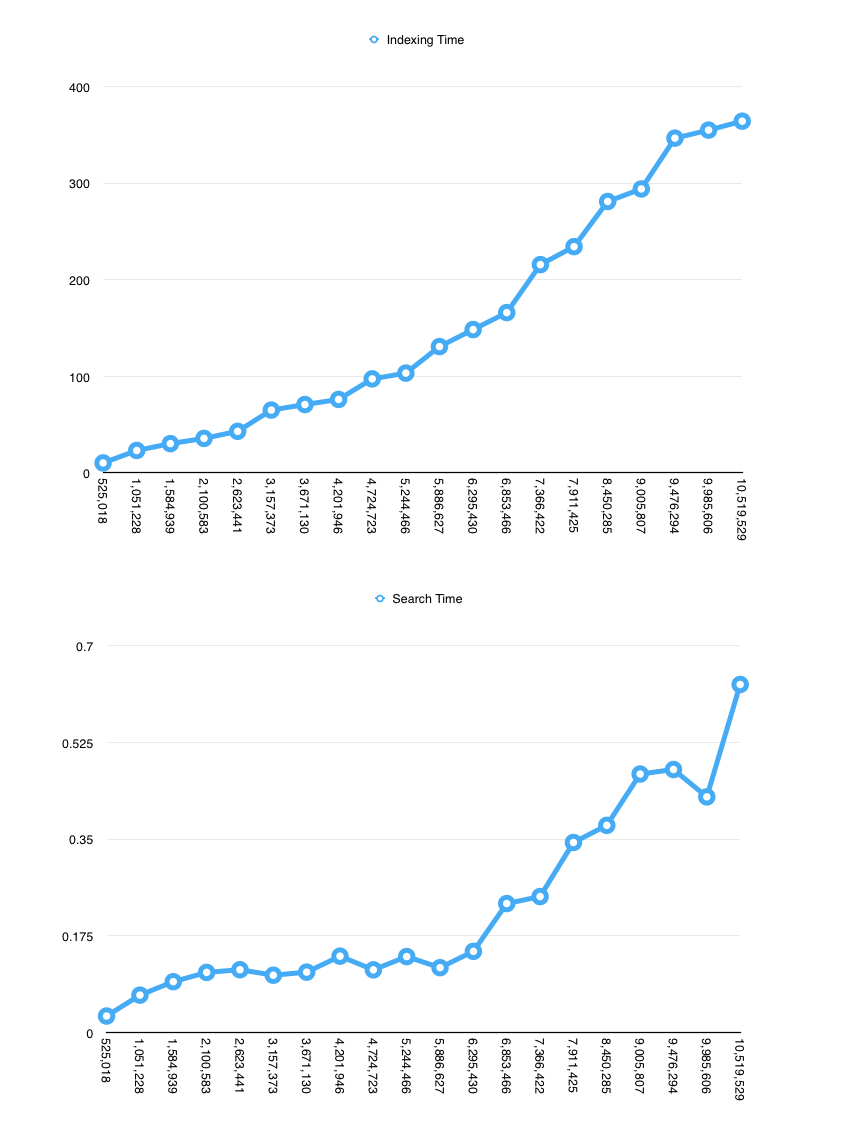
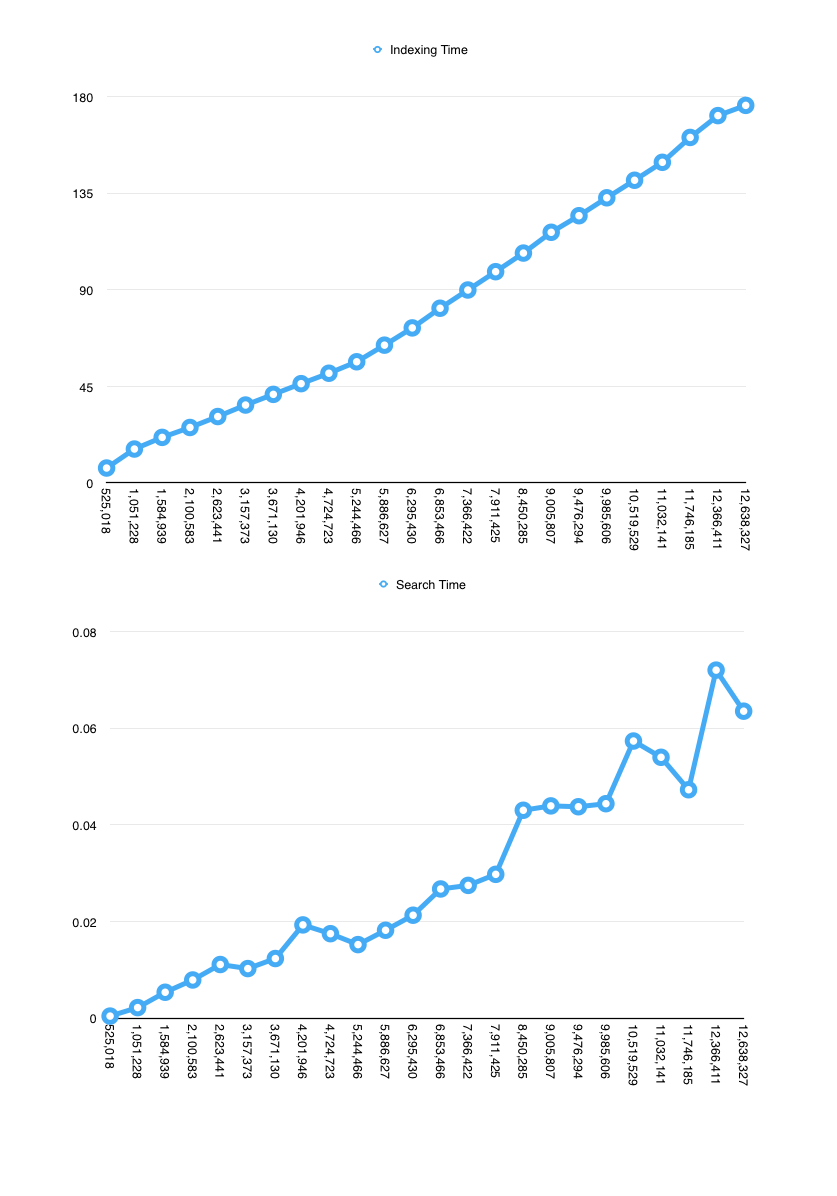
Added a skipStopWords option
This brings tremendous performance gains for larger texts

diff --git a/Classes/MHTextIndex.m b/Classes/MHTextIndex.m
@@ -20,6 +20,15 @@ static const NSUInteger stringFoldingOptions = NSCaseInsensitiveSearch|NSDiacrit
 static const size_t uint64_sz = sizeof(uint64_t);
 static const size_t uint32_sz = sizeof(uint32_t);
 
+NSSet *stopWords() {
+    static NSSet *stopWords;
+    static dispatch_once_t onceToken;
+    dispatch_once(&onceToken, ^{
+        stopWords = [NSSet setWithObjects:@"a's", @"able", @"about", @"above", @"according", @"accordingly", @"across", @"actually", @"after", @"afterwards", @"again", @"against", @"ain't", @"all", @"allow", @"allows", @"almost", @"alone", @"along", @"already", @"also", @"although", @"always", @"am", @"among", @"amongst", @"an", @"and", @"another", @"any", @"anybody", @"anyhow", @"anyone", @"anything", @"anyway", @"anyways", @"anywhere", @"apart", @"appear", @"appreciate", @"appropriate", @"are", @"aren't", @"around", @"as", @"aside", @"ask", @"asking", @"associated", @"at", @"available", @"away", @"awfully", @"be", @"became", @"because", @"become", @"becomes", @"becoming", @"been", @"before", @"beforehand", @"behind", @"being", @"believe", @"below", @"beside", @"besides", @"best", @"better", @"between", @"beyond", @"both", @"brief", @"but", @"by", @"c'mon", @"c's", @"came", @"can", @"can't", @"cannot", @"cant", @"cause", @"causes", @"certain", @"certainly", @"changes", @"clearly", @"co", @"com", @"come", @"comes", @"concerning", @"consequently", @"consider", @"considering", @"contain", @"containing", @"contains", @"corresponding", @"could", @"couldn't", @"course", @"currently", @"definitely", @"described", @"despite", @"did", @"didn't", @"different", @"do", @"does", @"doesn't", @"doing", @"don't", @"done", @"down", @"downwards", @"during", @"each", @"edu", @"eg", @"eight", @"either", @"else", @"elsewhere", @"enough", @"entirely", @"especially", @"et", @"etc", @"even", @"ever", @"every", @"everybody", @"everyone", @"everything", @"everywhere", @"ex", @"exactly", @"example", @"except", @"far", @"few", @"fifth", @"first", @"five", @"followed", @"following", @"follows", @"for", @"former", @"formerly", @"forth", @"four", @"from", @"further", @"furthermore", @"get", @"gets", @"getting", @"given", @"gives", @"go", @"goes", @"going", @"gone", @"got", @"gotten", @"greetings", @"had", @"hadn't", @"happens", @"hardly", @"has", @"hasn't", @"have", @"haven't", @"having", @"he", @"he's", @"hello", @"help", @"hence", @"her", @"here", @"here's", @"hereafter", @"hereby", @"herein", @"hereupon", @"hers", @"herself", @"hi", @"him", @"himself", @"his", @"hither", @"hopefully", @"how", @"howbeit", @"however", @"i'd", @"i'll", @"i'm", @"i've", @"ie", @"if", @"ignored", @"immediate", @"in", @"inasmuch", @"inc", @"indeed", @"indicate", @"indicated", @"indicates", @"inner", @"insofar", @"instead", @"into", @"inward", @"is", @"isn't", @"it", @"it'd", @"it'll", @"it's", @"its", @"itself", @"just", @"keep", @"keeps", @"kept", @"know", @"known", @"knows", @"last", @"lately", @"later", @"latter", @"latterly", @"least", @"less", @"lest", @"let", @"let's", @"like", @"liked", @"likely", @"little", @"look", @"looking", @"looks", @"ltd", @"mainly", @"many", @"may", @"maybe", @"me", @"mean", @"meanwhile", @"merely", @"might", @"more", @"moreover", @"most", @"mostly", @"much", @"must", @"my", @"myself", @"name", @"namely", @"nd", @"near", @"nearly", @"necessary", @"need", @"needs", @"neither", @"never", @"nevertheless", @"new", @"next", @"nine", @"no", @"nobody", @"non", @"none", @"noone", @"nor", @"normally", @"not", @"nothing", @"novel", @"now", @"nowhere", @"obviously", @"of", @"off", @"often", @"oh", @"ok", @"okay", @"old", @"on", @"once", @"one", @"ones", @"only", @"onto", @"or", @"other", @"others", @"otherwise", @"ought", @"our", @"ours", @"ourselves", @"out", @"outside", @"over", @"overall", @"own", @"particular", @"particularly", @"per", @"perhaps", @"placed", @"please", @"plus", @"possible", @"presumably", @"probably", @"provides", @"que", @"quite", @"qv", @"rather", @"rd", @"re", @"really", @"reasonably", @"regarding", @"regardless", @"regards", @"relatively", @"respectively", @"right", @"said", @"same", @"saw", @"say", @"saying", @"says", @"second", @"secondly", @"see", @"seeing", @"seem", @"seemed", @"seeming", @"seems", @"seen", @"self", @"selves", @"sensible", @"sent", @"serious", @"seriously", @"seven", @"several", @"shall", @"she", @"should", @"shouldn't", @"since", @"six", @"so", @"some", @"somebody", @"somehow", @"someone", @"something", @"sometime", @"sometimes", @"somewhat", @"somewhere", @"soon", @"sorry", @"specified", @"specify", @"specifying", @"still", @"sub", @"such", @"sup", @"sure", @"t's", @"take", @"taken", @"tell", @"tends", @"th", @"than", @"thank", @"thanks", @"thanx", @"that", @"that's", @"thats", @"the", @"their", @"theirs", @"them", @"themselves", @"then", @"thence", @"there", @"there's", @"thereafter", @"thereby", @"therefore", @"therein", @"theres", @"thereupon", @"these", @"they", @"they'd", @"they'll", @"they're", @"they've", @"think", @"third", @"this", @"thorough", @"thoroughly", @"those", @"though", @"three", @"through", @"throughout", @"thru", @"thus", @"to", @"together", @"too", @"took", @"toward", @"towards", @"tried", @"tries", @"truly", @"try", @"trying", @"twice", @"two", @"un", @"under", @"unfortunately", @"unless", @"unlikely", @"until", @"unto", @"up", @"upon", @"us", @"use", @"used", @"useful", @"uses", @"using", @"usually", @"value", @"various", @"very", @"via", @"viz", @"vs", @"want", @"wants", @"was", @"wasn't", @"way", @"we", @"we'd", @"we'll", @"we're", @"we've", @"welcome", @"well", @"went", @"were", @"weren't", @"what", @"what's", @"whatever", @"when", @"whence", @"whenever", @"where", @"where's", @"whereafter", @"whereas", @"whereby", @"wherein", @"whereupon", @"wherever", @"whether", @"which", @"while", @"whither", @"who", @"who's", @"whoever", @"whole", @"whom", @"whose", @"why", @"will", @"willing", @"wish", @"with", @"within", @"without", @"won't", @"wonder", @"would", @"wouldn't", @"yes", @"yet", @"you", @"you'd", @"you'll", @"you're", @"you've", @"your", @"yours", @"yourself", @"yourselves", @"zero", nil];
+    });
+    return stopWords;
+}
+
 typedef enum IndexObjectKeyType : NSUInteger {
     IndexedObjectKeyTypeStrings = 0,
     IndexedObjectKeyTypeMeta = 1
@@ -153,13 +162,24 @@ void removeIndexForStringInObject(NSData *ident, NSUInteger stringIdx, LDBWriteb
                                        });
                                    }];
 }
-void indexWordInObjectTextFragment(NSData *ident, NSStringEncoding encoding, NSUInteger minimalTokenLength,
+void indexWordInObjectTextFragment(NSData *ident, NSStringEncoding encoding,
+                                   NSUInteger minimalTokenLength, BOOL skipStopWords,
                                    NSString *wordSubstring, NSRange wordSubstringRange, NSUInteger stringIdx,
                                    LDBWritebatch *wb) {
     
     NSMutableData *keys = [NSMutableData data];
     NSString *indexedString = [wordSubstring stringByFoldingWithOptions:stringFoldingOptions
                                                                  locale:[NSLocale currentLocale]];
+    
+    static NSSet *stopWordList;
+    static dispatch_once_t onceToken;
+    dispatch_once(&onceToken, ^{
+        stopWordList = stopWords();
+    });
+    
+    if (skipStopWords && [stopWordList containsObject:indexedString])
+        return;
+    
     NSData *keyData;
     NSRange subRange,
     globalRange = wordSubstringRange;
@@ -282,7 +302,10 @@ void indexWordInObjectTextFragment(NSData *ident, NSStringEncoding encoding, NSU
         
         _indexingQueue = [[NSOperationQueue alloc] init];
         _indexingQueue.maxConcurrentOperationCount = 10;
+        
         _minimalTokenLength = 2;
+        _skipStopWords = YES;
+        
         _path = path;
         _name = name;
         
@@ -353,7 +376,8 @@ void indexWordInObjectTextFragment(NSData *ident, NSStringEncoding encoding, NSU
             [obj enumerateSubstringsInRange:(NSRange){0, obj.length}
                                     options:NSStringEnumerationByWords|NSStringEnumerationLocalized
                                  usingBlock:^(NSString *substring, NSRange substringRange, NSRange enclosingRange, BOOL *stop) {
-                                     indexWordInObjectTextFragment(ident, encoding, _sself->_minimalTokenLength, substring, substringRange, idx, wb);
+                                     indexWordInObjectTextFragment(ident, encoding, _sself->_minimalTokenLength, _sself->_skipStopWords,
+                                                                   substring, substringRange, idx, wb);
                                  }];
         }];
         
@@ -414,7 +438,8 @@ void indexWordInObjectTextFragment(NSData *ident, NSStringEncoding encoding, NSU
             [obj enumerateSubstringsInRange:(NSRange){0, obj.length}
                                     options:NSStringEnumerationByWords|NSStringEnumerationLocalized
                                  usingBlock:^(NSString *substring, NSRange substringRange, NSRange enclosingRange, BOOL *stop) {
-                                     indexWordInObjectTextFragment(ident, encoding, _sself->_minimalTokenLength, substring, substringRange, idx, wb);
+                                     indexWordInObjectTextFragment(ident, encoding, _sself->_minimalTokenLength, _sself->_skipStopWords,
+                                                                   substring, substringRange, idx, wb);
                                  }];
         }];
         

diff --git a/MHTextSearch iOS Tests/iPhone Performance Test/AppDelegate.m b/MHTextSearch iOS Tests/iPhone Performance Test/AppDelegate.m
@@ -12,25 +12,15 @@
 @implementation AppDelegate {
     
     MHTextIndex *textIndex;
-    NSMutableArray *texts;
+//    NSMutableArray *texts;
     NSMutableArray *textPaths;
 }
 
-//#define CREATE_NEW_INDEX
-
-CGFloat sizeOfIndexedTexts = 10.0;
+#define CREATE_NEW_INDEX
+#define INDEX_TEXTS
+CGFloat sizeOfIndexedTexts = 0;
 
 - (void)measureWithSize:(CGFloat)size {
-    texts = [NSMutableArray arrayWithCapacity:2000];
-    textPaths = [NSMutableArray arrayWithCapacity:2000];
-    
-#ifdef CREATE_NEW_INDEX
-    textIndex = [MHTextIndex textIndexInLibraryWithName:@"textIndex"];
-    [textIndex deleteFromDisk];
-#endif
-    
-    textIndex = [MHTextIndex textIndexInLibraryWithName:@"textIndex"];
-    textIndex.indexingQueue.maxConcurrentOperationCount = 2;
     
     [textIndex setIdentifier:^NSData *(id object){
         NSUInteger indexVal = [object integerValue];
@@ -59,7 +49,7 @@ CGFloat sizeOfIndexedTexts = 10.0;
         return frag;
     }];
 
-#ifdef CREATE_NEW_INDEX
+#ifdef INDEX_TEXTS
     NSString *textsDirPath = [[[NSBundle mainBundle] bundlePath] stringByAppendingPathComponent:@"texts"];
     if (!textsDirPath)
         return;
@@ -67,7 +57,7 @@ CGFloat sizeOfIndexedTexts = 10.0;
     NSFileManager *fm = [NSFileManager defaultManager];
     NSDirectoryEnumerator *enumerator = [fm enumeratorAtPath:textsDirPath];
     NSString *childPath;
-    NSUInteger totalSize, count = 0;
+    NSUInteger totalSize = 0, count = 0;
     
     CFAbsoluteTime t1 = CFAbsoluteTimeGetCurrent();
     for (id child in enumerator) {
@@ -80,13 +70,16 @@ CGFloat sizeOfIndexedTexts = 10.0;
             if (error) {
                 continue;
             } else {
-                [textPaths addObject:childPath];
-                [textIndex indexObject:@(count)];
+                
+                if (totalSize >= (size + 0.5)*1024*1024) {
+                    break;
+                } else if (totalSize >= size*1024*1024) {
+                    [textPaths addObject:childPath];
+                    [textIndex indexObject:@(count)];
+                }
                 
                 count++;
                 totalSize += [textContent lengthOfBytesUsingEncoding:[textContent fastestEncoding]];
-                if (totalSize >= size*1024*1024)
-                    break;
             }
         }
     }
@@ -114,9 +107,9 @@ CGFloat sizeOfIndexedTexts = 10.0;
         double delayInSeconds = 0.5;
         dispatch_time_t popTime = dispatch_time(DISPATCH_TIME_NOW, (int64_t)(delayInSeconds * NSEC_PER_SEC));
         dispatch_after(popTime, dispatch_get_main_queue(), ^(void){
-            exit(0);
+            [self measureWithSize:size+0.5];
         });
-#ifdef CREATE_NEW_INDEX
+#ifdef INDEX_TEXTS
     });
 #endif
 }
@@ -126,6 +119,16 @@ CGFloat sizeOfIndexedTexts = 10.0;
     // Override point for customization after application launch.
     self.window.backgroundColor = [UIColor whiteColor];
     [self.window makeKeyAndVisible];
+    
+#ifdef CREATE_NEW_INDEX
+    textIndex = [MHTextIndex textIndexInLibraryWithName:@"textIndex"];
+    [textIndex deleteFromDisk];
+#endif
+    
+    textIndex = [MHTextIndex textIndexInLibraryWithName:@"textIndex"];
+    textIndex.indexingQueue.maxConcurrentOperationCount = 2;
+    
+    textPaths = [NSMutableArray arrayWithCapacity:2000];
     
     double delayInSeconds = 0.1;
     dispatch_time_t popTime = dispatch_time(DISPATCH_TIME_NOW, (int64_t)(delayInSeconds * NSEC_PER_SEC));

diff --git a/MHTextSearch iOS Tests/iOS Tests/iOS_Tests.m b/MHTextSearch iOS Tests/iOS Tests/iOS_Tests.m
@@ -34,6 +34,7 @@
     
     textIndex = [MHTextIndex textIndexInLibraryWithName:@"textIndex"];
     nameIndex = [MHTextIndex textIndexInLibraryWithName:@"nameIndex"];
+//    nameIndex.indexingQueue.maxConcurrentOperationCount = 1;
     
     texts = [NSMutableArray arrayWithCapacity:2000];
     textPaths = [NSMutableArray arrayWithCapacity:2000];
@@ -235,7 +236,7 @@
         CFAbsoluteTime t2 = CFAbsoluteTimeGetCurrent();
         NSArray *results = [textIndex searchResultForKeyword:@"hat" options:0];
         NSLog(@"Search over %lu names happened in %f seconds", (unsigned long)texts.count, CFAbsoluteTimeGetCurrent() - t2);
-        XCTAssert(results.count == 4, @"The search should yield 4 result");
+        XCTAssert(results.count == 1, @"The search should yield 1 result");
     };
 }
 

diff --git a/Classes/MHTextIndex.h b/Classes/MHTextIndex.h
@@ -30,6 +30,7 @@ typedef struct {
 
 @property NSSortOptions sortOptions;
 @property NSUInteger minimalTokenLength;
+@property BOOL skipStopWords;
 
 @property (strong, readonly) NSString * path;
 @property (strong, readonly) NSString * name;
